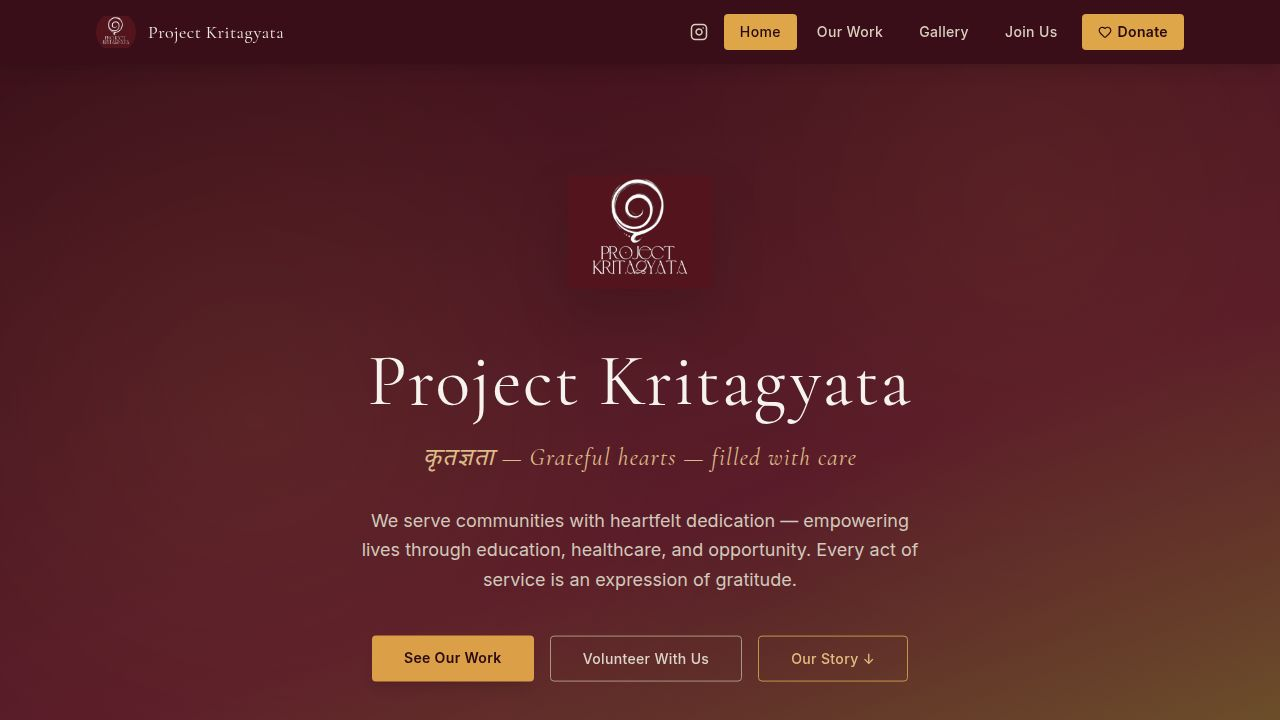
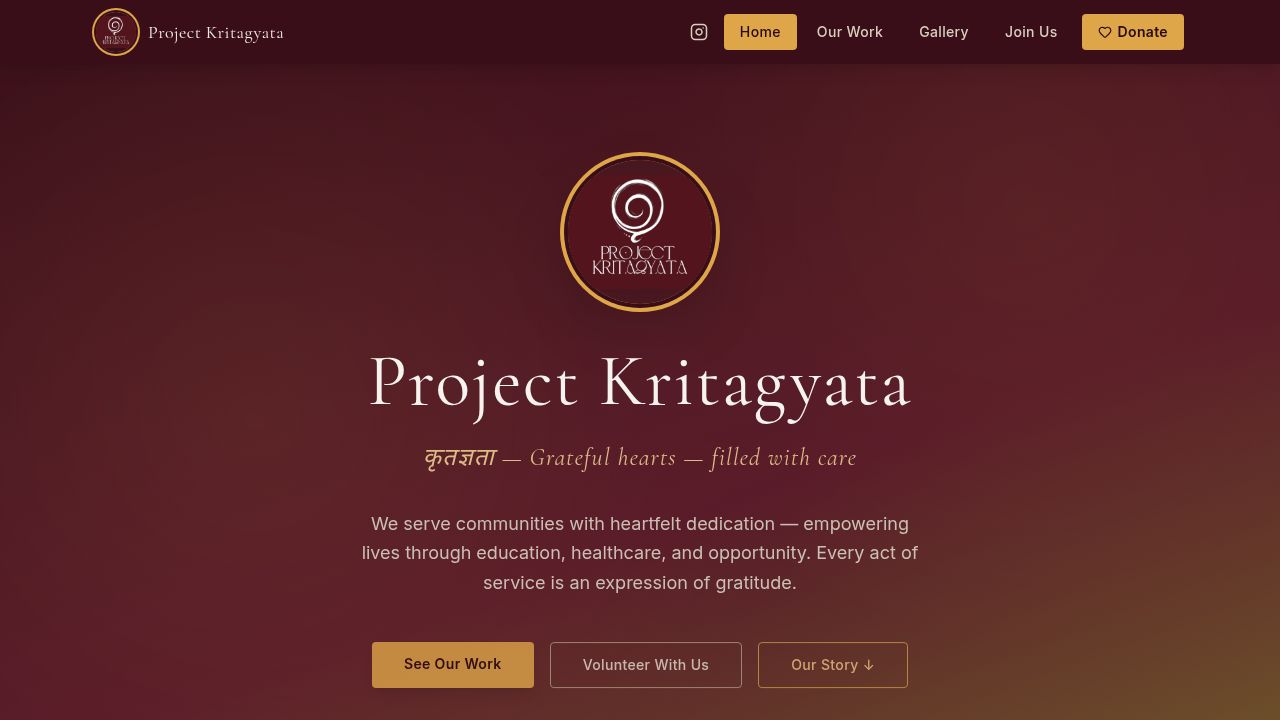
Prepare project for Vercel deployment and remove Replit dependencies
Migrate project to Vercel by creating a Vercel-specific Vite configuration, updating package.json scripts, removing Replit dependencies, and generating a deployment guide.

Replit-Commit-Author: Agent
Replit-Commit-Session-Id: d597ad1b-382c-4bac-950a-79973153abbf
Replit-Commit-Checkpoint-Type: full_checkpoint
Replit-Commit-Event-Id: 2a3fcc56-866b-41fb-a924-5e4e1b3362b3
Replit-Commit-Screenshot-Url: https://storage.googleapis.com/screenshot-production-us-central1/9f0f04a5-5053-4251-984d-99571c36b357/d597ad1b-382c-4bac-950a-79973153abbf/MBZKMo2
Replit-Helium-Checkpoint-Created: true

diff --git a/artifacts/kritagyata/vite.vercel.config.ts b/artifacts/kritagyata/vite.vercel.config.ts
@@ -1,0 +1,25 @@
+import { defineConfig } from "vite";
+import react from "@vitejs/plugin-react";
+import tailwindcss from "@tailwindcss/vite";
+import path from "path";
+
+export default defineConfig({
+  base: "/",
+  plugins: [
+    react(),
+    tailwindcss(),
+  ],
+  resolve: {
+    alias: {
+      "@": path.resolve(import.meta.dirname, "src"),
+      // @assets is unused in production source; point to src as a safe fallback
+      "@assets": path.resolve(import.meta.dirname, "src"),
+    },
+    dedupe: ["react", "react-dom"],
+  },
+  root: path.resolve(import.meta.dirname),
+  build: {
+    outDir: path.resolve(import.meta.dirname, "dist"),
+    emptyOutDir: true,
+  },
+});

diff --git a/artifacts/kritagyata/index.html b/artifacts/kritagyata/index.html
@@ -4,18 +4,18 @@
     <meta charset="UTF-8" />
     <meta name="viewport" content="width=device-width, initial-scale=1.0, maximum-scale=1" />
     <title>Project Kritagyata</title>
-    <meta name="description" content="Project Kritagyata — built on Replit. Update this description to reflect the app." />
+    <meta name="description" content="Project Kritagyata — gratitude in action. An NGO serving communities through elder care, food distribution, and more across India." />
     <meta name="robots" content="index, follow" />
     <meta property="og:title" content="Project Kritagyata" />
-    <meta property="og:description" content="Project Kritagyata — built on Replit. Update this description to reflect the app." />
+    <meta property="og:description" content="Project Kritagyata — gratitude in action. An NGO serving communities through elder care, food distribution, and more across India." />
     <meta property="og:type" content="website" />
     <meta name="twitter:card" content="summary_large_image" />
     <meta name="twitter:title" content="Project Kritagyata" />
-    <meta name="twitter:description" content="Project Kritagyata — built on Replit. Update this description to reflect the app." />
-    <link rel="icon" type="image/svg+xml" href="/favicon.svg" />
+    <meta name="twitter:description" content="Project Kritagyata — gratitude in action. An NGO serving communities through elder care, food distribution, and more across India." />
+    <link rel="icon" type="image/png" href="/logo.png" />
     <link rel="preconnect" href="https://fonts.googleapis.com">
     <link rel="preconnect" href="https://fonts.gstatic.com" crossorigin>
-    <link href="https://fonts.googleapis.com/css2?family=Inter:wght@400;500;600;700&display=swap" rel="stylesheet">
+    <link href="https://fonts.googleapis.com/css2?family=Cormorant+Garamond:ital,wght@0,300;0,400;0,500;0,600;0,700;1,300;1,400&family=Inter:wght@300;400;500;600&display=swap" rel="stylesheet">
   </head>
   <body>
     <div id="root"></div>

diff --git a/VERCEL_DEPLOY.md b/VERCEL_DEPLOY.md
@@ -1,0 +1,94 @@
+# Vercel Deployment Guide — Project Kritagyata
+
+## Quick Deploy
+
+[![Deploy with Vercel](https://vercel.com/button)](https://vercel.com/new)
+
+---
+
+## Step-by-Step Setup
+
+### 1. Push to GitHub
+
+Push this entire repository (or just `artifacts/kritagyata/`) to a GitHub repo.
+
+> **Tip:** You can push the whole monorepo and set the Vercel root directory to `artifacts/kritagyata`. This is the recommended approach.
+
+### 2. Import into Vercel
+
+1. Go to [vercel.com/new](https://vercel.com/new)
+2. Import your GitHub repository
+3. On the **Configure Project** screen, set:
+
+| Setting | Value |
+|---|---|
+| **Root Directory** | `artifacts/kritagyata` |
+| **Framework Preset** | Vite |
+| **Build Command** | `npm run build:vercel` |
+| **Output Directory** | `dist` |
+| **Install Command** | `npm install` |
+
+4. Click **Deploy** — no environment variables required.
+
+---
+
+## What Changed (Files Modified for Vercel)
+
+| File | What changed | Why |
+|---|---|---|
+| `vite.vercel.config.ts` | **New file** — Vite config without Replit plugins, no PORT/BASE_PATH requirement, `base: "/"`, outputs to `dist/` | Replit's `vite.config.ts` throws at startup if `PORT` and `BASE_PATH` env vars are missing (Vercel doesn't set them) |
+| `vercel.json` | **New file** — sets build command, output dir, SPA rewrites | All routes (e.g. `/our-work`, `/gallery`) must rewrite to `index.html` so React Router (wouter) handles them client-side |
+| `tsconfig.vercel.json` | **New file** — standalone TypeScript config with no workspace references | `tsconfig.json` extends `../../tsconfig.base.json` and references `../../lib/api-client-react`, both of which don't exist in a standalone deploy |
+| `package.json` | Added `build:vercel` and `preview:vercel` scripts; replaced all `catalog:` references with real semver versions; removed `@replit/vite-plugin-*` and `@workspace/api-client-react` dependencies | `catalog:` is a pnpm workspace feature — it resolves versions from `pnpm-workspace.yaml` which isn't available when Vercel installs just this subdirectory. Replit plugins and workspace packages don't exist outside the monorepo |
+| `index.html` | Updated meta description and `<title>` to remove "built on Replit" copy; switched favicon from `favicon.svg` to `logo.png` | Accurate public-facing metadata |
+
+---
+
+## Removed Replit-Specific Dependencies
+
+These packages are **not** installed for the Vercel build:
+
+| Package | Reason removed |
+|---|---|
+| `@replit/vite-plugin-runtime-error-modal` | Replit-only dev overlay |
+| `@replit/vite-plugin-cartographer` | Replit file explorer integration |
+| `@replit/vite-plugin-dev-banner` | Replit dev banner |
+| `@workspace/api-client-react` | Monorepo workspace package — not needed (all data is hardcoded) |
+
+---
+
+## No Backend Required
+
+This site is **100% static**. All project data (drives, stats, gallery) is hardcoded in `src/data/index.ts`. There are no API calls. Vercel's free Hobby plan is more than sufficient.
+
+---
+
+## Environment Variables
+
+**None required.** The site has no runtime secrets.
+
+---
+
+## Custom Domain
+
+After deploying, go to **Project → Settings → Domains** in Vercel and add your custom domain (e.g. `projectkritagyata.org`). Vercel provisions SSL automatically.
+
+---
+
+## Local Vercel Build Test
+
+To verify the build locally before deploying:
+
+```bash
+cd artifacts/kritagyata
+npm install
+npm run build:vercel
+# Output appears in artifacts/kritagyata/dist/
+```
+
+To preview the production build locally:
+
+```bash
+npm run preview:vercel
+# Opens at http://localhost:4173
+```